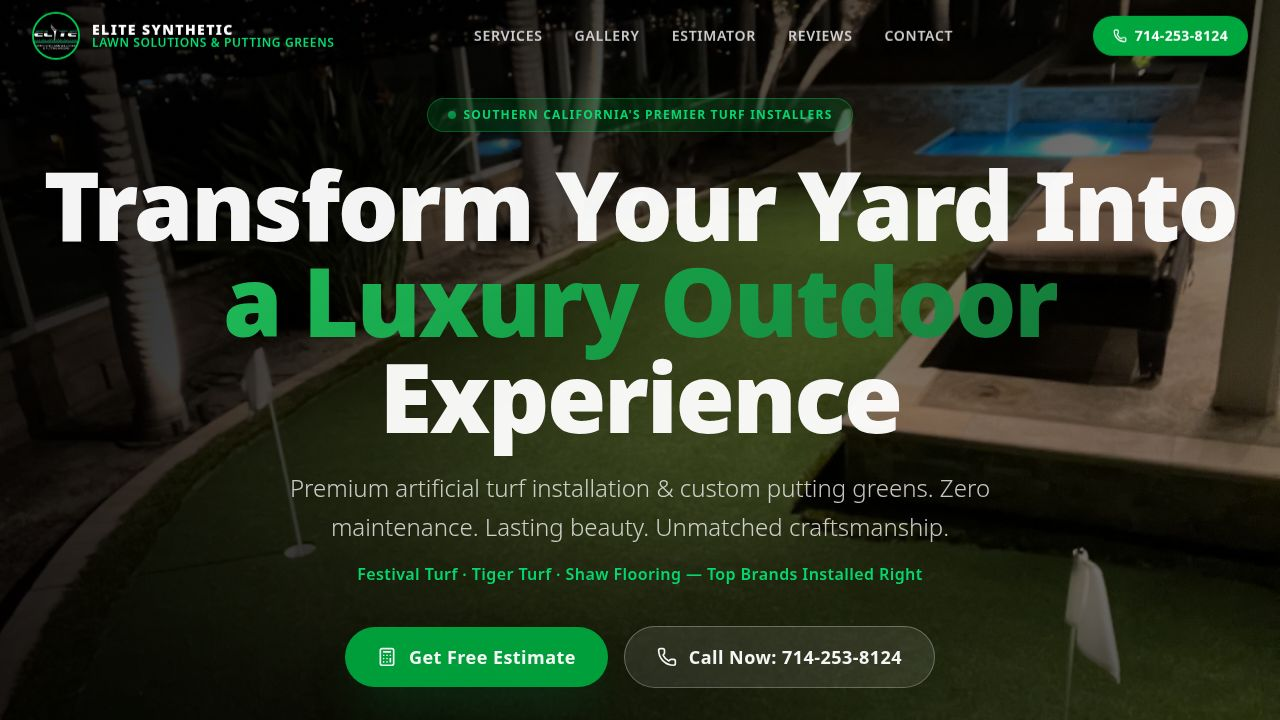
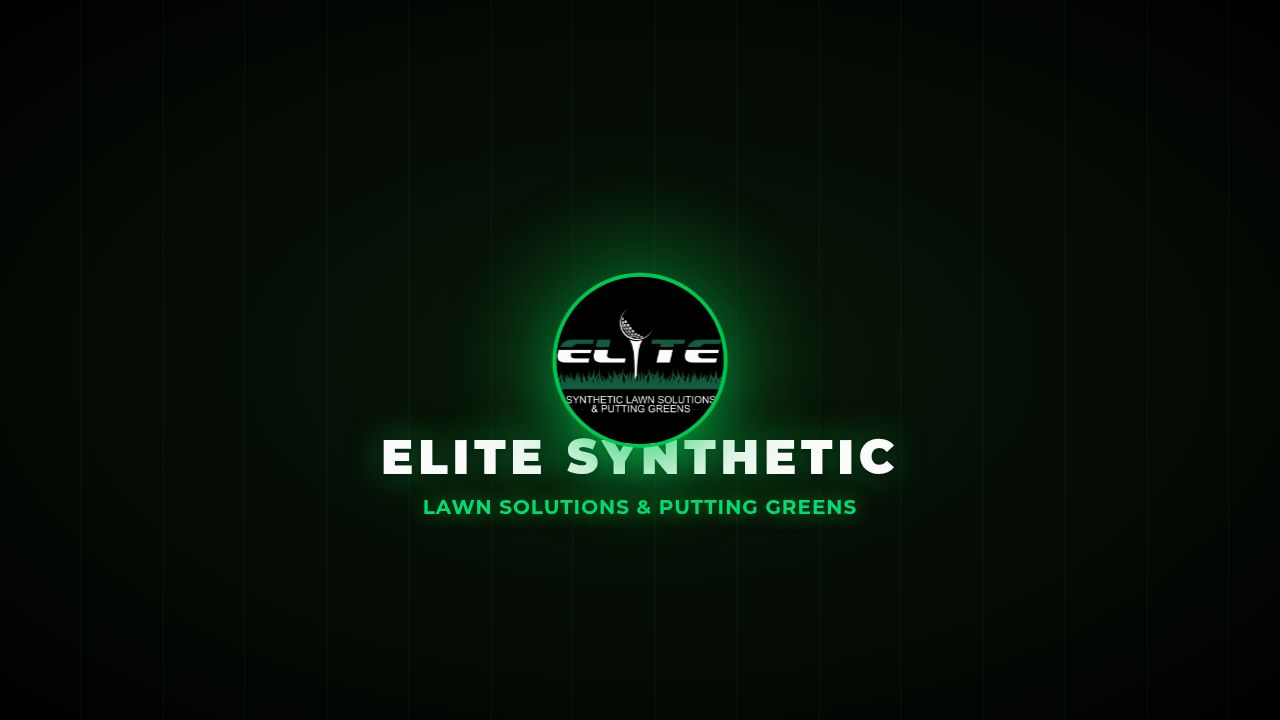
Add debug logs and reload button to dashboard to diagnose lead display issues
Adds a debug log panel and a manual reload button to the dashboard page to help diagnose why leads are not displaying correctly, by showing fetch statuses and errors.

Replit-Commit-Author: Agent
Replit-Commit-Session-Id: a78b4330-123b-4c8f-b161-99f5d424674f
Replit-Commit-Checkpoint-Type: full_checkpoint
Replit-Commit-Event-Id: 60316cfc-541d-4766-bb8e-75b120795c82
Replit-Commit-Screenshot-Url: https://storage.googleapis.com/screenshot-production-us-central1/62e6e5c1-4de1-4ed3-9d43-28d45f0c3b0e/a78b4330-123b-4c8f-b161-99f5d424674f/PJryi3T
Replit-Helium-Checkpoint-Created: true

diff --git a/artifacts/esls-website/src/pages/Dashboard.tsx b/artifacts/esls-website/src/pages/Dashboard.tsx
@@ -47,6 +47,7 @@ export default function Dashboard() {
   const [data, setData] = useState<Record<Tab, Lead[]>>({ introLeads: [], estimates: [], inquiries: [] });
   const [loading, setLoading] = useState(false);
   const [firebaseError, setFirebaseError] = useState<string | null>(null);
+  const [debugLog, setDebugLog] = useState<string[]>([]);
 
   function handleLogin(e: React.FormEvent) {
     e.preventDefault();
@@ -65,11 +66,12 @@ export default function Dashboard() {
     setPasswordInput("");
   }
 
-  useEffect(() => {
-    if (!authed) return;
+  const fetchData = () => {
     setLoading(true);
     setFirebaseError(null);
+    setDebugLog([]);
     const tabs: Tab[] = ["introLeads", "estimates", "inquiries"];
+    const logs: string[] = [];
 
     const sortByTime = (docs: Lead[]) =>
       [...docs].sort((a, b) => {
@@ -81,20 +83,32 @@ export default function Dashboard() {
     Promise.all(
       tabs.map(async (tab) => {
         try {
+          logs.push(`Fetching ${tab}...`);
           const snap = await getDocs(collection(db, tab));
+          logs.push(`✓ ${tab}: ${snap.docs.length} docs found`);
           const docs = snap.docs.map(d => ({ id: d.id, ...d.data() }));
           return sortByTime(docs);
         } catch (err: any) {
+          const msg = err?.code ?? err?.message ?? String(err);
+          logs.push(`✗ ${tab} error: ${msg}`);
           if (err?.code === "permission-denied") {
-            setFirebaseError("Firebase permission denied — go to Firebase Console → Firestore → Rules and set: allow read, write: if true;");
+            setFirebaseError("Firebase rules are blocking reads. Go to Firebase Console → Firestore → Rules and set: allow read, write: if true;");
+          } else {
+            setFirebaseError(`Error fetching data: ${msg}`);
           }
           return [];
         }
       })
     ).then(([introLeads, estimates, inquiries]) => {
       setData({ introLeads, estimates, inquiries });
+      setDebugLog(logs);
       setLoading(false);
     });
+  };
+
+  useEffect(() => {
+    if (!authed) return;
+    fetchData();
   }, [authed]);
 
   if (!authed) {
@@ -153,6 +167,7 @@ export default function Dashboard() {
           <p className="text-white/40 text-xs">Elite Synthetic Lawn Solutions · {total} total leads</p>
         </div>
         <div className="flex items-center gap-4">
+          <button onClick={fetchData} className="text-sm text-white/40 hover:text-green-400 transition">↻ Reload</button>
           <a href="/" className="text-white/40 hover:text-white text-sm transition">← Site</a>
           <button onClick={handleLogout} className="text-sm text-white/40 hover:text-red-400 transition">Sign out</button>
         </div>
@@ -186,10 +201,17 @@ export default function Dashboard() {
 
         {firebaseError && (
           <div className="mb-4 bg-red-500/10 border border-red-500/30 rounded-xl px-5 py-4 text-red-400 text-sm">
-            <strong>Firebase Error:</strong> {firebaseError}
-            <div className="mt-2 text-red-400/70 text-xs">
-              Go to Firebase Console → Firestore → Rules and set: <code className="bg-black/30 px-1 rounded">allow read, write: if true;</code> (for testing) or restrict to authenticated users.
-            </div>
+            <strong>Error:</strong> {firebaseError}
+          </div>
+        )}
+
+        {debugLog.length > 0 && (
+          <div className="mb-4 bg-white/3 border border-white/10 rounded-xl px-5 py-3 font-mono text-xs space-y-1">
+            {debugLog.map((line, i) => (
+              <div key={i} className={line.startsWith("✓") ? "text-green-400" : line.startsWith("✗") ? "text-red-400" : "text-white/40"}>
+                {line}
+              </div>
+            ))}
           </div>
         )}
 